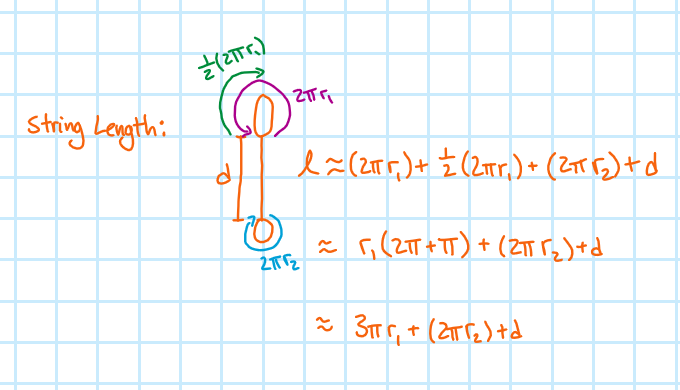
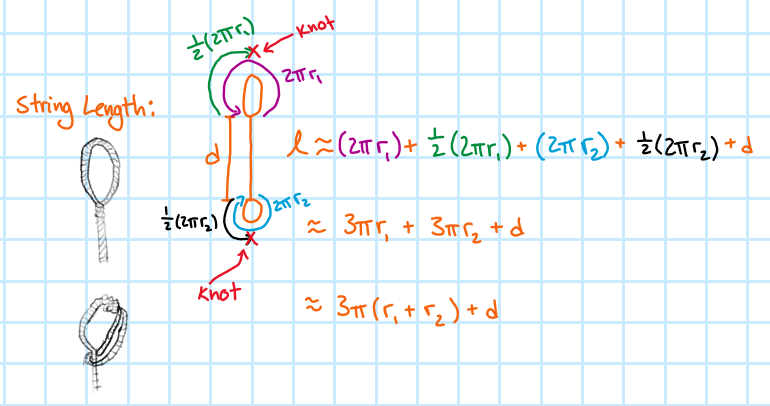
BB

diff --git a/Yo-Yo Exploration/SimpleModel/README.md b/Yo-Yo Exploration/SimpleModel/README.md
@@ -6,20 +6,18 @@ Table of Contents
 - $r_1$ is the radius of the cylinder used to represent the "finger" around which the top loop of the yo-yo string is wrapped
 - $r_2$ is the radius of the central shaft of the yo-yo around which the bottom loop of the yo-yo string is wrapped
 - $r_3$ is the total radius of the yo-yo, from the center of the central axis, to the outer edge of the yo-yo
+- $y(t)$ is the position of the yo-yo measured at the center of the central shaft
 - $y=0$ is the bottom of the cylinder ("finger")
 - $y_{max}$ is the position of the center of the yo-yo at the top of its path. This is where the yo-yo starts at $t=0$
 - $y_{min}$ is the position of the center of the yo-yo at the bottom of its path. This is where the yo-yo sits as it "sleeps"
 - $g$ is the acceleration due to gravity
-- $l$ is the total length of the yo-yo string, including the wraps around the "finger" and the central axis of the yo-yo. That is, $l=(2 \pi r_{1})+\frac{1}{2}(2 \pi r_{1})+(2 \pi r_{2})+d$
-  - $(2 \pi r_{1})$ is the circumference of the "finger" cylinder
-  - $\frac{1}{2}(2 \pi r_{1})$ is used to account for the half wrap around the finger that arises from the slip knot style of the top of the yo-yo string
-  - $(2 \pi r_{2})$ is the circumference of the central shaft of the yo-yo
-  - $d$ is the length of yo-yo string between $y=0$ and the top of the central shaft of the yo-yo
-- The direction of rotation for the yo-yo is *clockwise*
-- The yo-yo string is initially tangent to the left side of the central shaft of the yo-yo
-- After the yo-yo begins to climb up, the yo-yo string is tangent to the right side of the central shaft of the yo-yo
+- $l$ is the total length of the yo-yo string, including the wraps around the "finger" and the central shaft of the yo-yo. 
+- The direction of rotation for the yo-yo in this study is chosen to be *clockwise*
+- The yo-yo string is initially tangent to the left side of the central shaft of the yo-yo when wound up
+- After the yo-yo begins to climb from the bottom, the yo-yo string is tangent to the right side of the central shaft of the yo-yo
 
 ## Objectives
+- Explore one period of a yo-yo's path (once down and once back up)
 - Describe the linear motion of the yo-yo system by building the linear kinematic equations
 - Describe the angular motion of the yo-yo system by building the angular kinematic equations
 
@@ -37,3 +35,6 @@ This is the moment in time when the yo-yo is said to be "sleeping" at the bottom
 
 ### Step Four
 This is a moment in time when the yo-yo is traveling up, toward the cylinder and against gravity.
+
+### Step Five
+This is the moment that the yo-yo reaches the cylinder at the top and comes to rest again. 

diff --git a/Yo-Yo Exploration/SimpleModel/Step 3/README.md b/Yo-Yo Exploration/SimpleModel/Step 3/README.md
@@ -20,7 +20,15 @@ Equation $10$ has been written this way to show it in terms of variables that ha
 At this moment in time, the entire length of the yo-yo string is being used. This makes it easy to write an expression for the length of the string:
 
 $$\begin{gather*}
-l=(2 \pi r_{1})+\frac{1}{2}(2 \pi r_{1})+(2 \pi r_{2})+d
+l=(2 \pi r_{1})+\frac{1}{2}(2 \pi r_{1})+(2 \pi r_{2})+\frac{1}{2}(2 \pi r_{2})+d
 \end{gather*}$$
 
-As stated in the Definitions section of the SM Overview, the expression above is designed to account for the major lengths of string used in the system. The term "major lengths" is used to illustrate that no effort has been made to account for the lengths of string used to tie knots. That is, this expression accounts for all lengths of string *outside* any knots.
+- $(2 \pi r_{1})$ is the circumference of the "finger" cylinder which has one full wrap
+- $\frac{1}{2}(2 \pi r_{1})$ is used to account for the half wrap around the finger that arises from the slip knot style of the top of the yo-yo string. It is doubled over on itself in a way that creates an extra half-wrap to create the loop of the slip knot
+- $(2 \pi r_{2})$ is the circumference of the central shaft of the yo-yo
+- $\frac{1}{2}(2 \pi r_{2})$ is used to account for the half wrap around the central shaft of the yo-yo that arises from the slip knot style of the bottom of the yo-yo string. It is doubled over on itself in a way that creates an extra half-wrap to create the loop of the slip knot
+- $d$ is the length of yo-yo string between $y=0$ and the top of the central shaft of the yo-yo
+
+The string length expression is designed to account for the major lengths of string used in the system. The term "major lengths" is used to illustrate that no effort has been made to account for the lengths of string used to tie knots. That is, this expression accounts for all lengths of string *outside* any knots. The image below is meant to be a graphical representation of the terms in the expression.
+
+<img src="Step3StringExpression.png" alt="Step 1" width="80%">

diff --git a/Yo-Yo Exploration/SimpleModel/Step 4/README.md b/Yo-Yo Exploration/SimpleModel/Step 4/README.md
@@ -4,8 +4,40 @@
 
 <img src="Step4Worked.png" alt="Step 1" width="40%">
 
+This is the yo-yo system on its way back up the string. This is the most interesting step in the process because the yo-yo, very unnaturally, moves *against* gravity and climbs the string back up to the cylinder.
 
+## Linear Kinematics
+The yo-yo is back in motion, so the linear kinematics will be more than just constants and zeros.
 
+$$\begin{gather*}
+\vec{a}(t)=g+c_{3} & (11) \\
+\vec{v}(t)=\int \vec{a}(t)=\int (g+c_{3})dt=gt+c_{3}t+c_{4}=t(g+c_{3})+c_4 & (12) \\
+y(t)=\int \vec{v}(t)=\int (t(g+c_{3})+c_4)dt=\frac{1}{2}gt^{2}+\frac{1}{2}c_{3}t^2+c_{4}t+c_{5} \\
+\end{gather*}$$
 
+The equation for $y(t)$ can be rearranged and simplified
 
-##### [Simple Model](https://github.com/brbarker/PhysicsStuff/tree/fcb599745a6a8ef0bb9c15524de582a60e431273/Yo-Yo%20Exploration/SimpleModel)
+$$\begin{gather*}
+y(t)=\frac{1}{2}gt^{2}+\frac{1}{2}c_{3}t^2+c_{4}t+c_{5} \\
+=c_{5}+c_{4}t+\frac{1}{2}t^2(g+c_{3}) \\
+\end{gather*}$$
+
+Once again, in this form
+$y(t)$ looks just like a linear kinematic equation with some constants that need to be identified. Just as in Step Two, the fact that this is a position function alludes to the fact that the lone constant, 
+$c_{5}$, will be the initial position *of this movement*. That means that the initial position for this step is the *lowest* point of the yo-yo path,
+$y_{min}$. The constant
+$c_{4}$ will coincide with the initial velocity,
+$v_{i}$ that the yo-yo has to start climbing the string again. 
+
+The last constant,
+$c_{3}$ is going to require some thought and further investigation to determine. It is a modifier of the acceleration, which makes sense because the yo-yo has to be accelerating *faster* than the value of g in order to climb the string again.
+
+$$\begin{gather*}
+y(t)=c_{5}+c_{4}t+\frac{1}{2}t^2(g+c_{3}) \\
+=y_{min}+\vec{v}_{i}t+\frac{1}{2}t^2(g+c_{3}) \\
+\end{gather*}$$
+
+where all that is known now is that
+$c_{3} > 0$.
+
+## Investigation of c3

diff --git a/Yo-Yo Exploration/SimpleModel/Step 2/README.md b/Yo-Yo Exploration/SimpleModel/Step 2/README.md
@@ -12,9 +12,9 @@ Now that the yo-yo is in motion, the equations in this moment will be a lot more
 $g$.
 
 $$\begin{gather*}
-a(t)=g & (5)\\
-v(t)=\int a(t)dt=\int gdt =gt+c_{1} & (6)\\
-y(t)=\int v(t)dt= \int (gt+c_{1})dt=\frac{1}{2}gt^{2}+c_{1}t+c_{2} & (7)\\
+\vec{a}(t)=g & (5)\\
+\vec{v}(t)=\int \vec{a}(t)dt=\int gdt =gt+c_{1} \\
+y(t)=\int \vec{v}(t)dt= \int (gt+c_{1})dt=\frac{1}{2}gt^{2}+c_{1}t+c_{2} \\
 \end{gather*}$$
 
 These equations are the linear kinematic equations in terms of the vertical position, $y$, with a few constants, namely
@@ -34,18 +34,18 @@ $y_{i}=y_{max}$.
 
 Now that
 $c_{1}$ and
-$c_{2}$ have been found, they can be substituted back into equations
-$6$ and
-$7$, keeping in mind that
-$v_{i}=0$.
+$c_{2}$ have been found, they can be substituted back into the equations for 
+$\vec{v}(t)$ and
+$y(t)$ keeping in mind that
+$v_{i}=0$ because there has been no throw of the yo-yo.
 
 $$\begin{gather*}
-v(t)=gt+c_{1} \\
+\vec{v}(t)=gt+c_{1} \\
 =c_{1}+gt \\
-=v_{i}+gt=gt & (6)\\
+=\vec{v}_{i}+gt=gt & (6)\\
 \\
 y(t)=\frac{1}{2}gt^{2}+c_{1}t+c_{2} \\
 =c_{2}+c_{1}t+\frac{1}{2}gt^{2} \\
-=y_{i}+v_{i}t+\frac{1}{2}gt^{2} \\
+=y_{i}+\vec{v}_{i}t+\frac{1}{2}gt^{2} \\
 =y_{max}+\frac{1}{2}gt^{2} & (7)\\
 \end{gather*}$$
